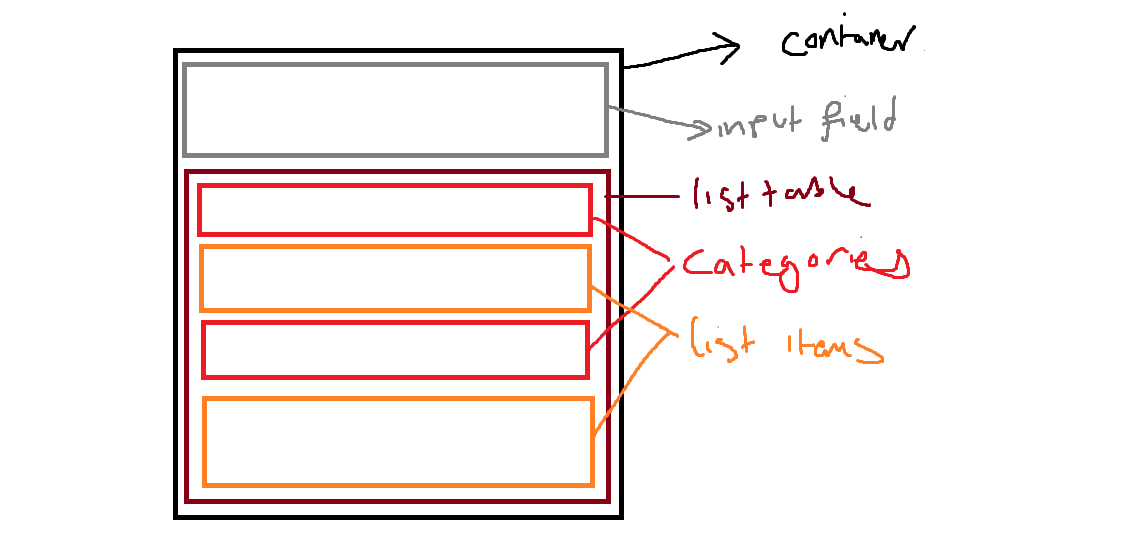
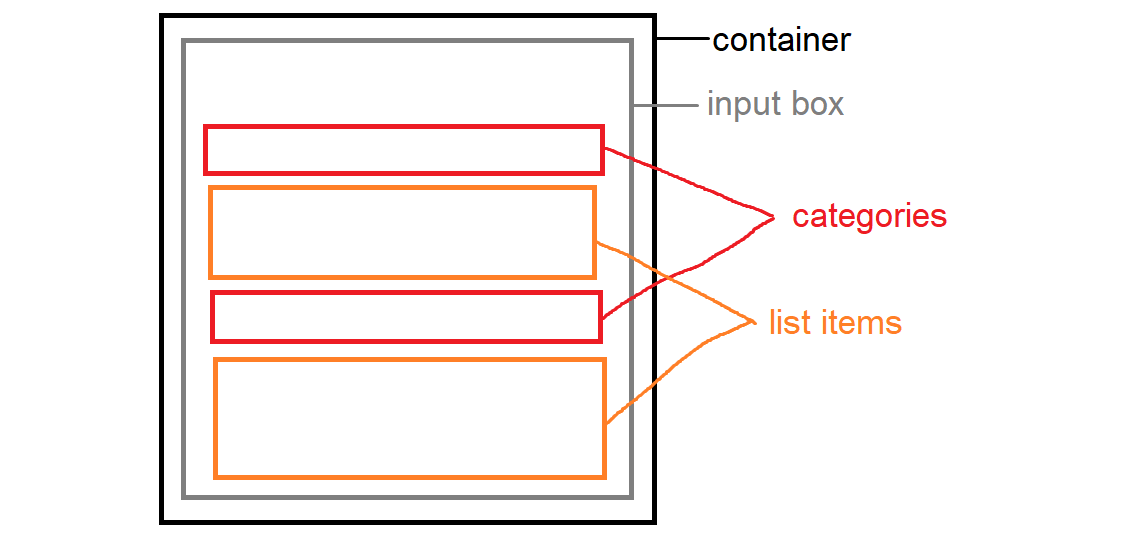
todolist update

Changed region(s): [[0.1235, 0.0, 0.8333, 0.967]]

diff --git a/todolist/src/App.js b/todolist/src/App.js
@@ -1,32 +1,67 @@
 import "./App.css";
+import React, { useEffect, useState } from "react";
 
 function Container() {
   return (
     <>
-      <div class="container">
-        <h1>TodoList</h1>
-      </div>
-      <div class="container">
-        <Inputbox />
-      </div>
-      <div class="container">
-        <ListTable />
+      <div className="container">
+        <div>
+          <h1>Todo</h1>
+        </div>
+        <div>
+          <Inputbox />
+        </div>
       </div>
     </>
   );
 }
 
 function Inputbox() {
+  const [itemList, setItemList] = useState([]);
+  const [input, setInput] = useState("");
+
+  const handleAdd = () => {
+    if (input !== "") {
+      const newItem = { name: input, isDone: false };
+      setItemList([...itemList, newItem]);
+      setInput("");
+    }
+  };
+
+  useEffect(() => {
+    console.log(itemList);
+  }, [itemList]);
+
   return (
     <>
-      <input type="text"></input>
-      <button class="btn">Add</button>
+      <input
+        type="text"
+        value={input}
+        onChange={(e) => setInput(e.target.value)}
+      ></input>
+      <button className="btn" onClick={handleAdd}>
+        Add
+      </button>
+      <Categories />
+      <ToDoList />
     </>
   );
 }
 
-function ListTable() {
-  return <></>;
+function Categories({ category }) {
+  return (
+    <tr>
+      <th>{category}</th>
+    </tr>
+  );
+}
+
+function ToDoList({ toDo }) {
+  return (
+    <>
+      <h1>{toDo}</h1>
+    </>
+  );
 }
 
 export default function App() {

diff --git a/todolist/src/App.css b/todolist/src/App.css
@@ -1,9 +1,10 @@
 .container {
   display: flex;
+  flex-direction: column;
   align-items: center;
   justify-content: center;
 }
 
 .btn {
-  margin: 1em;
+  margin: 0.5rem;
 }
